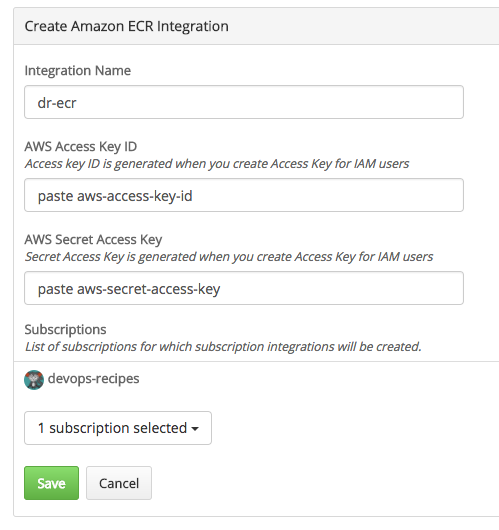
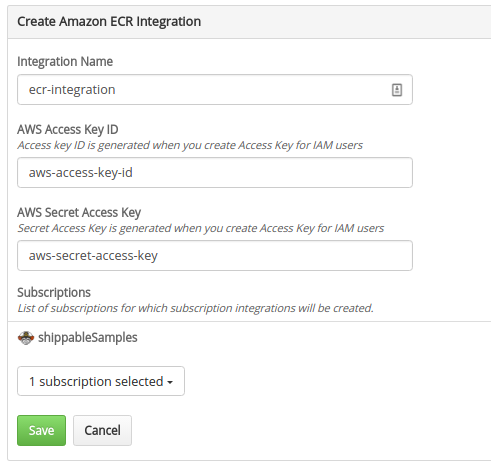
Updates docs to push to amazon ecr

Changed region(s): [[0.0, 0.0295, 1.0, 0.9726]]

diff --git a/sources/ci/push-amazon-ecr.md b/sources/ci/push-amazon-ecr.md
@@ -9,13 +9,16 @@ You can push your image to Amazon ECR in any section [of your yml](../reference/
 
 Before you start, you will need to connect your Amazon account with Shippable so we have the credentials to push your image on your behalf. We do this through [TODO Add link] Account Integrations, so that your credentials are abstracted from your config file. Once you add an account integration, you can use it for all your projects without needing to add it again.
 
+#### Generating access keys for Amazon ECR
+- To generate **aws_access_key_id** and **aws_secret_access_key** please follow <a href="http://docs.aws.amazon.com/general/latest/gr/managing-aws-access-keys.html" target="_blank">Amazon's guide for Creating and Managing access keys</a>.
+
+#### Adding Amazon ECR Integration to your Shippable Account
 -  Go to your **Account Settings** by clicking on the gear icon in the top navigation bar.
--  Click on **Integrations** in the left sidebar menu and then click on **Add integration**
--  Locate **Docker** in the list and click on **Create Integration**
--  Name your integration with an easy to remember friendly name
--  Enter your aws_access_key_id and aws_secret_access_key. You can follow instructions in [Amazon's guide for Creating and Managing access keys](http://docs.aws.amazon.com/general/latest/gr/managing-aws-access-keys.html)
--  Choose the Subscription which contains the repository for which you want to push the image
--  Click **Save**
+-  Click on **Integrations** in the left sidebar menu and then click on **Add integration**.
+-  Search **Amazon ECR** in the list and click on **Create Integration**.
+-  Name your integration and enter your **aws_access_key_id** and **aws_secret_access_key**.
+-  Choose the Subscription which contains the repository for which you want to push the image.
+-  Click **Save**.
 
 <img src="../../images/ci/amazon-ecr-integration.png" alt="Add Amazon ECR keys">
 
@@ -28,13 +31,13 @@ build:
   post_ci:
     - docker push aws-account-id.dkr.ecr.us-east-1.amazonaws.com/image-name:image-tag
 
-integrations:                               
+integrations:
   hub:
-    - integrationName: myIntegration    #replace with your integration name   
-      type: ecr                        
+    - integrationName: ecr-integration    #replace with your integration name
+      type: ecr
 ```
 
-You can replace your myIntegration, aws-account-id, region, image-name and image-tag as required in the snippet above.
+You can replace your ecr-integration, aws-account-id, region, image-name and image-tag as required in the snippet above.
 
 ## Advanced config
 
@@ -49,8 +52,8 @@ build:
 
 integrations:                               
   hub:
-    - integrationName: myIntegration    #replace with your integration name   
-      type: ecr    
+    - integrationName: ecr-integration    #replace with your integration name
+      type: ecr
       branches:
         only:
           - master
@@ -70,13 +73,13 @@ build:
 
 integrations:                               
   hub:
-    - integrationName: master-ecr    #replace with your integration name   
+    - integrationName: master-ecr    #replace with your integration name
       type: ecr    
       branches:
         only:
           - master
 
-    - integrationName: dev-ecr    #replace with your integration name   
+    - integrationName: dev-ecr    #replace with your integration name
       type: ecr    
       branches:
         only:
@@ -97,7 +100,7 @@ build:
 
 integrations:                               
   hub:
-    - integrationName: myIntegration    #replace with your integration name   
+    - integrationName: ecr-integration    #replace with your integration name
       type: ecr              
 ```
 
@@ -116,10 +119,32 @@ build:
 
 integrations:                               
   hub:
-    - integrationName: myIntegration    #replace with your integration name   
+    - integrationName: ecr-integration    #replace with your integration name
       type: ecr
 
 ```
+
+### Important note for customers overriding default image for CI
+If you are using a custom image for your CI workflow, we will try to login to ECR on your behalf from inside your CI build container. This means that you will need the **AWS Command Line Interface (CLI)** installed inside your custom image if you want this to succeed, else you will get a `aws: command` not found error.
+
+You can solve this in 2 ways:
+
+-  Set `agent_only: true` for ECR integration in your `shippable.yml`
+
+```
+integrations:
+  hub:
+    - integrationName: ecr-integration
+      type: ecr
+      agent_only: true
+```
+If `agent_only` is set to `true`, we will not attempt to login to the registry from inside your CI build container. However, this also means that you will only be able to pull from or push to ECR in the `pre_ci` and `push` sections of the yml.
+
+-  If you want to use docker commands to interact with ECR in your `ci`, `post_ci`, `on_success` or `on_failure` sections within your `shippable.yml`, then include the following in your **Dockerfile**to install the AWS CLI:
+```
+sudo pip install awscli
+```
+
 ## Sample project
 
 Here are some links to a working sample of this scenario. This is a simple Node.js application that runs some tests and then pushes
